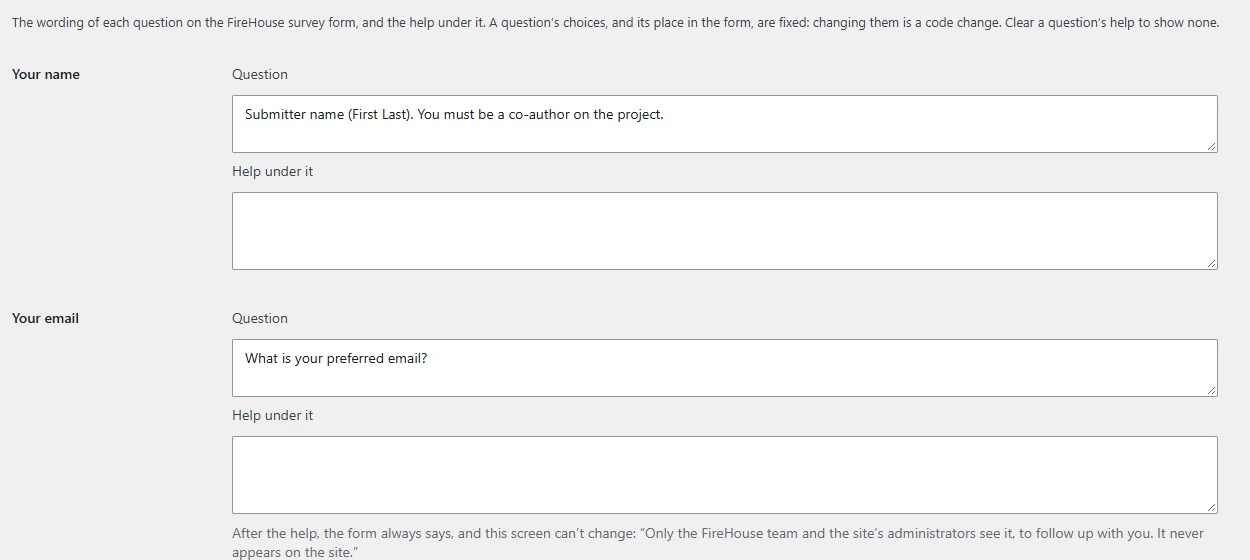
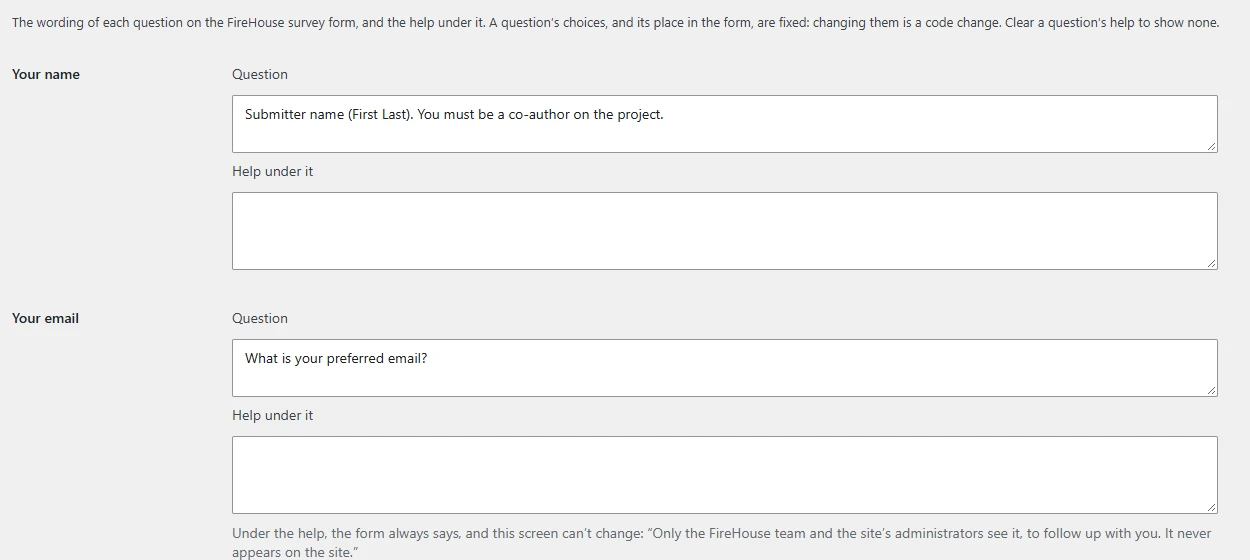
Survey questions: boxes named for their question, errors seen, privacy line its own
The Section 508 review of #68 (Low findings a FireHouse Editor reaches):

- Each question's name is a heading, so a screen reader's heading keys
  go question by question, and each box's label ends with its question's
  name, hidden, so a list of the screen's fields tells the 30 apart.
- A question's box in error gets WordPress's red border, which its own
  rule gives inputs only, and a field a summary link goes to stops below
  the toolbar with its label in view.
- A private question's privacy line is a line of its own under the help,
  tied to the field, so help without a full stop can't run into it.

The guide says the bold name is what the form's error messages call the
question, and its image's alt text says what the picture shows. The
questions screenshot is retaken for the screen's "Under the help" note.

Changed region(s): [[0.1872, 0.9411, 0.9672, 0.9714]]

diff --git a/wp-content/plugins/firehouse/survey/class-form.php b/wp-content/plugins/firehouse/survey/class-form.php
@@ -94,6 +94,7 @@ final class Form {
 		$focus    = (string) $state['focus'];
 		$required = $question['required'] ? '<span class="fh-field__required" aria-hidden="true"> *</span>' : '';
 		$help     = isset( $question['help'] ) ? (string) $question['help'] : '';
+		$privacy  = isset( $question['privacy'] ) ? (string) $question['privacy'] : '';
 		switch ( $question['type'] ) {
 			case 'choice':
 			case 'choices':
@@ -106,7 +107,7 @@ final class Form {
 				$control = 'longtext' === $question['type']
 					? '<textarea id="' . esc_attr( $id ) . '" name="' . esc_attr( Submission::FIELD . '[' . $name . ']' ) . '" rows="' . (int) ( $question['rows'] ?? 4 ) . '" class="fh-field__control fh-field__control--area' . ( '' !== $problem ? ' fh-field__control--error' : '' ) . '"' . self::attributes( $id, $question, $help, $problem, $focus === $name ) . '>' . Markup::text( (string) $value ) . '</textarea>'
 					: '<input id="' . esc_attr( $id ) . '" name="' . esc_attr( Submission::FIELD . '[' . $name . ']' ) . '" type="' . ( 'email' === $question['type'] ? 'email' : 'text' ) . '"' . ( 'year' === $question['type'] ? ' inputmode="numeric" maxlength="4"' : '' ) . ' value="' . Markup::text( (string) $value ) . '" class="fh-field__control' . ( '' !== $problem ? ' fh-field__control--error' : '' ) . '"' . ( isset( $question['autocomplete'] ) ? ' autocomplete="' . esc_attr( $question['autocomplete'] ) . '"' : '' ) . self::attributes( $id, $question, $help, $problem, $focus === $name ) . ' />';
-				return '<div class="fh-field fh-survey__question"><label class="fh-field__label" for="' . esc_attr( $id ) . '">' . esc_html( $question['label'] ) . $required . '</label>' . $control . self::help( $id, $help, $problem ) . '</div>';
+				return '<div class="fh-field fh-survey__question"><label class="fh-field__label" for="' . esc_attr( $id ) . '">' . esc_html( $question['label'] ) . $required . '</label>' . $control . self::help( $id, $help, $problem, $privacy ) . '</div>';
 		}
 	}
 
@@ -123,9 +124,10 @@ final class Form {
 		$id      = 'fh-survey-' . $name;
 		$problem = (string) ( $state['problems'][ $name ] ?? '' );
 		$help    = isset( $question['help'] ) ? (string) $question['help'] : '';
+		$privacy = isset( $question['privacy'] ) ? (string) $question['privacy'] : '';
 		$many    = 'choices' === $question['type'];
 		$chosen  = array_map( 'strval', (array) $value );
-		$html    = '<fieldset class="fh-survey__group fh-survey__question" id="' . esc_attr( $id ) . '" tabindex="-1"' . self::described( $id, $help, $problem ) . '><legend class="fh-field__label">' . esc_html( $question['label'] ) . $required . self::required_words( $question ) . '</legend>' . self::help( $id, $help, $problem );
+		$html    = '<fieldset class="fh-survey__group fh-survey__question" id="' . esc_attr( $id ) . '" tabindex="-1"' . self::described( $id, $help, $problem, $privacy ) . '><legend class="fh-field__label">' . esc_html( $question['label'] ) . $required . self::required_words( $question ) . '</legend>' . self::help( $id, $help, $problem, $privacy );
 		foreach ( $question['options'] as $key => $label ) {
 			$option = $id . '-' . $key;
 			$html  .= '<div class="fh-survey__option"><input type="' . ( $many ? 'checkbox' : 'radio' ) . '" id="' . esc_attr( $option ) . '" name="' . esc_attr( Submission::FIELD . '[' . $name . ']' . ( $many ? '[]' : '' ) ) . '" value="' . esc_attr( (string) $key ) . '"' . checked( in_array( (string) $key, $chosen, true ), true, false ) . ' /><label for="' . esc_attr( $option ) . '">' . esc_html( $label ) . '</label></div>';
@@ -196,35 +198,44 @@ final class Form {
 	 * @param bool                 $autofocus Whether it takes the focus.
 	 */
 	private static function attributes( string $id, array $question, string $help, string $problem, bool $autofocus ): string {
-		return self::described( $id, $help, $problem )
+		return self::described( $id, $help, $problem, isset( $question['privacy'] ) ? (string) $question['privacy'] : '' )
 			. ( '' !== $problem ? ' aria-invalid="true"' : '' )
 			. ( ! empty( $question['required'] ) ? ' aria-required="true"' : '' )
 			. ( $autofocus ? ' autofocus' : '' );
 	}
 
 	/**
-	 * The `aria-describedby` that ties help and a problem to their control.
+	 * The `aria-describedby` that ties a problem, help and a private answer's privacy
+	 * line to their control.
 	 *
 	 * @param string $id      The control's id.
 	 * @param string $help    Its help.
 	 * @param string $problem What's wrong with it.
+	 * @param string $privacy Who sees the answer, for a private one.
 	 */
-	private static function described( string $id, string $help, string $problem ): string {
-		$ids = array_merge( '' !== $problem ? array( $id . '-problem' ) : array(), '' !== $help ? array( $id . '-help' ) : array() );
+	private static function described( string $id, string $help, string $problem, string $privacy = '' ): string {
+		$ids = array_merge(
+			'' !== $problem ? array( $id . '-problem' ) : array(),
+			'' !== $help ? array( $id . '-help' ) : array(),
+			'' !== $privacy ? array( $id . '-privacy' ) : array()
+		);
 		return array() === $ids ? '' : ' aria-describedby="' . esc_attr( implode( ' ', $ids ) ) . '"';
 	}
 
 	/**
-	 * A control's problem and help, under it.
+	 * A control's problem, help and privacy line, under it, each on a line of its own,
+	 * so help however it's worded doesn't run into the privacy line.
 	 *
 	 * @param string $id      The control's id.
 	 * @param string $help    Its help.
 	 * @param string $problem What's wrong with it.
+	 * @param string $privacy Who sees the answer, for a private one.
 	 */
-	private static function help( string $id, string $help, string $problem ): string {
+	private static function help( string $id, string $help, string $problem, string $privacy = '' ): string {
 		// "Error:" said before a problem, wherever a screen reader meets it.
 		return ( '' !== $problem ? '<span id="' . esc_attr( $id . '-problem' ) . '" class="fh-field__help fh-field__help--error"><span class="fh-visually-hidden">' . esc_html__( 'Error:', 'firehouse' ) . ' </span>' . esc_html( $problem ) . '</span>' : '' )
-			. ( '' !== $help ? '<span id="' . esc_attr( $id . '-help' ) . '" class="fh-field__help">' . esc_html( $help ) . '</span>' : '' );
+			. ( '' !== $help ? '<span id="' . esc_attr( $id . '-help' ) . '" class="fh-field__help">' . esc_html( $help ) . '</span>' : '' )
+			. ( '' !== $privacy ? '<span id="' . esc_attr( $id . '-privacy' ) . '" class="fh-field__help">' . esc_html( $privacy ) . '</span>' : '' );
 	}
 
 	/**

diff --git a/wp-content/plugins/firehouse/tests/SettingsTest.php b/wp-content/plugins/firehouse/tests/SettingsTest.php
@@ -273,17 +273,17 @@ final class SettingsTest extends WordPressTestCase {
 		$html = self::questions();
 
 		$this->assertSame( count( Questions::all() ), substr_count( $html, '<th scope="row">' ) );
-		$this->assertStringContainsString( '<th scope="row">The project’s title</th><td><fieldset><legend class="screen-reader-text">The project’s title</legend>', $html );
-		$this->assertStringContainsString( '<p><label for="firehouse-questions-title-label">Question</label></p><p><textarea id="firehouse-questions-title-label" name="firehouse_settings[questions][title][label]" rows="2" class="large-text" required aria-describedby="firehouse-questions-title-label-own">Your &lt;b&gt;project&lt;/b&gt;’s title?</textarea></p>', $html );
+		$this->assertStringContainsString( '<th scope="row"><h3>The project’s title</h3></th><td><fieldset><legend class="screen-reader-text">The project’s title</legend>', $html );
+		$this->assertStringContainsString( '<p><label for="firehouse-questions-title-label">Question<span class="screen-reader-text"> (The project’s title)</span></label></p><p><textarea id="firehouse-questions-title-label" name="firehouse_settings[questions][title][label]" rows="2" class="large-text" required aria-describedby="firehouse-questions-title-label-own">Your &lt;b&gt;project&lt;/b&gt;’s title?</textarea></p>', $html );
 		$this->assertStringContainsString( '<p class="description" id="firehouse-questions-title-label-own">Changed. The plugin’s own wording: “What is the title of your project?”</p>', $html );
 		$this->assertStringContainsString( 'name="firehouse_settings[questions][title][help]" rows="3" class="large-text"></textarea>', $html, 'No help, unchanged: nothing describes it.' );
 		$this->assertStringContainsString( 'aria-describedby="firehouse-questions-email-help-privacy"></textarea>', $html, 'The help cleared to match the plugin, which has none.' );
-		$this->assertStringContainsString( '<p class="description" id="firehouse-questions-email-help-privacy">After the help, the form always says, and this screen can’t change: “Only the FireHouse team and the site’s administrators see it, to follow up with you. It never appears on the site.”</p>', $html );
+		$this->assertStringContainsString( '<p class="description" id="firehouse-questions-email-help-privacy">Under the help, the form always says, and this screen can’t change: “Only the FireHouse team and the site’s administrators see it, to follow up with you. It never appears on the site.”</p>', $html );
 		$this->assertStringNotContainsString( 'aria-invalid', $html );
 
 		Settings::sanitize( self::valid() + array( 'questions' => array( 'org' => array( 'label' => '' ) ) ) );
 		$html = self::questions();
-		$this->assertStringContainsString( '<tr class="form-invalid form-required"><th scope="row">Your agency or institution</th>', $html );
+		$this->assertStringContainsString( '<tr class="form-invalid form-required"><th scope="row"><h3>Your agency or institution</h3></th>', $html );
 		$this->assertStringContainsString( 'required aria-describedby="firehouse-questions-org-label-error" aria-invalid="true" autofocus>', $html );
 		$this->assertStringContainsString( '<p class="description" id="firehouse-questions-org-label-error"><strong>Error:</strong> Your agency or institution: the question can’t be empty.</p>', $html );
 	}

diff --git a/wp-content/plugins/firehouse/includes/class-settings.php b/wp-content/plugins/firehouse/includes/class-settings.php
@@ -232,8 +232,12 @@ final class Settings {
 				static function (): void {
 					add_filter( 'admin_title', array( self::class, 'title' ) );
 					// WordPress's style for a field in error replaces the focus ring with the
-					// same red border every field in error has; this puts the ring back.
-					wp_add_inline_style( 'common', '.form-table tr.form-invalid.form-required input:focus,.form-table tr.form-invalid.form-required textarea:focus{box-shadow:0 0 0 2px var(--wp-admin-theme-color,#2271b1)}' );
+					// same red border every field in error has; this puts the ring back. Its
+					// red border leaves out textareas, so a survey question's box in error
+					// gets one here. A field a link in the summary goes to stops below the
+					// toolbar, with its label in view. A question's heading looks like the
+					// other rows' names.
+					wp_add_inline_style( 'common', '.form-table tr.form-invalid.form-required input:focus,.form-table tr.form-invalid.form-required textarea:focus{box-shadow:0 0 0 2px var(--wp-admin-theme-color,#2271b1)}.form-table tr.form-invalid textarea[aria-invalid=true]{border-color:#d63638}.form-table input,.form-table textarea{scroll-margin-top:6em}#firehouse-questions th h3{font-size:inherit;font-weight:inherit;line-height:inherit;margin:0}' );
 				}
 			);
 		}
@@ -366,8 +370,9 @@ final class Settings {
 		echo '<table class="form-table" role="presentation"><tbody>';
 		foreach ( Survey\Questions::all() as $name => $question ) {
 			$invalid = isset( $errors[ self::field_id( array( 'questions', $name, 'label' ) ) ] ) || isset( $errors[ self::field_id( array( 'questions', $name, 'help' ) ) ] );
+			// A heading each, so a screen reader's heading keys go question by question.
 			printf(
-				'<tr%1$s><th scope="row">%2$s</th><td><fieldset><legend class="screen-reader-text">%2$s</legend>',
+				'<tr%1$s><th scope="row"><h3>%2$s</h3></th><td><fieldset><legend class="screen-reader-text">%2$s</legend>',
 				$invalid ? ' class="form-invalid form-required"' : '',
 				esc_html( (string) $question['name'] )
 			);
@@ -405,10 +410,17 @@ final class Settings {
 		}
 		if ( 'help' === $part && isset( $question['privacy'] ) ) {
 			/* translators: %s: the fixed line saying who sees a private answer. */
-			$notes[ $id . '-privacy' ] = esc_html( sprintf( __( 'After the help, the form always says, and this screen can’t change: “%s”', 'firehouse' ), (string) $question['privacy'] ) );
+			$notes[ $id . '-privacy' ] = esc_html( sprintf( __( 'Under the help, the form always says, and this screen can’t change: “%s”', 'firehouse' ), (string) $question['privacy'] ) );
 		}
 
-		printf( '<p><label for="%1$s">%2$s</label></p>', esc_attr( $id ), esc_html( 'label' === $part ? __( 'Question', 'firehouse' ) : __( 'Help under it', 'firehouse' ) ) );
+		// Named for its question too, so a list of the screen's fields tells the thirty
+		// boxes apart; the visible words still start the name.
+		printf(
+			'<p><label for="%1$s">%2$s<span class="screen-reader-text"> (%3$s)</span></label></p>',
+			esc_attr( $id ),
+			esc_html( 'label' === $part ? __( 'Question', 'firehouse' ) : __( 'Help under it', 'firehouse' ) ),
+			esc_html( (string) $question['name'] )
+		);
 		printf(
 			'<p><textarea id="%1$s" name="%2$s" rows="%3$d" class="large-text"%4$s%5$s%6$s>%7$s</textarea></p>',
 			esc_attr( $id ),

diff --git a/wp-content/plugins/firehouse/tests/SurveyFormTest.php b/wp-content/plugins/firehouse/tests/SurveyFormTest.php
@@ -54,8 +54,10 @@ final class SurveyFormTest extends WordPressTestCase {
 		$html = self::drawn( array() );
 
 		$this->assertStringContainsString( '<label class="fh-field__label" for="fh-survey-title">Your &lt;b&gt;project&lt;/b&gt;’s title?<span class="fh-field__required" aria-hidden="true"> *</span></label>', $html );
-		$this->assertStringContainsString( '<span id="fh-survey-email-help" class="fh-field__help">Use your work address. Only the FireHouse team and the site’s administrators see it, to follow up with you. It never appears on the site.</span>', $html );
-		$this->assertStringContainsString( '<span id="fh-survey-jobTitle-help" class="fh-field__help">Only the FireHouse team and the site’s administrators see it. It never appears on the site.</span>', $html );
+		$this->assertStringContainsString( '<span id="fh-survey-email-help" class="fh-field__help">Use your work address.</span><span id="fh-survey-email-privacy" class="fh-field__help">Only the FireHouse team and the site’s administrators see it, to follow up with you. It never appears on the site.</span>', $html );
+		$this->assertStringContainsString( '<span id="fh-survey-jobTitle-privacy" class="fh-field__help">Only the FireHouse team and the site’s administrators see it. It never appears on the site.</span>', $html );
+		$this->assertStringContainsString( 'aria-describedby="fh-survey-email-help fh-survey-email-privacy"', $html, 'Help and privacy line, each its own line, both tied to the field.' );
+		$this->assertStringContainsString( '<fieldset class="fh-survey__group fh-survey__question" id="fh-survey-shared" tabindex="-1" aria-describedby="fh-survey-shared-privacy">', $html );
 		$this->assertStringNotContainsString( 'fh-survey-links-help', $html, 'Help cleared: none.' );
 		$this->assertStringContainsString( 'Please list up to 8 user needs and recommendations identified in your project, one in each box.', $html, 'Not changed: the plugin’s wording.' );
 	}
@@ -101,7 +103,7 @@ final class SurveyFormTest extends WordPressTestCase {
 		$this->assertStringContainsString( 'name="_wpnonce" value="a-nonce"', $html );
 		$this->assertStringContainsString( 'name="' . Survey::STARTED . '" value="123.abc"', $html );
 		$this->assertStringContainsString( '<div class="fh-survey__trap" aria-hidden="true">', $html );
-		$this->assertStringContainsString( 'aria-describedby="fh-survey-email-help"', $html, 'A private field says so.' );
+		$this->assertStringContainsString( 'aria-describedby="fh-survey-email-privacy"', $html, 'A private field says so.' );
 		$this->assertSame( count( Questions::all() ), substr_count( $html, 'fh-survey__question' ) );
 	}
 

diff --git a/wp-content/plugins/firehouse/survey/class-questions.php b/wp-content/plugins/firehouse/survey/class-questions.php
@@ -246,22 +246,20 @@ final class Questions {
 
 	/**
 	 * The questions as the form asks them: each one's wording and help as the settings
-	 * screen changed them (Settings::stored()), over the plugin's own; and after a
-	 * private answer's help, its privacy line, whatever the help says.
+	 * screen changed them (Settings::stored()), over the plugin's own. A private
+	 * answer's privacy line stays as it is, for the form to show after the help, whatever
+	 * the help says.
 	 *
 	 * @return array<string, array<string, mixed>>
 	 */
 	public static function worded(): array {
 		$questions = self::all();
 		$changed   = Settings::stored()['questions'];
-		foreach ( $questions as $name => $question ) {
+		foreach ( array_keys( $questions ) as $name ) {
 			foreach ( self::WORDING as $part ) {
 				if ( isset( $changed[ $name ][ $part ] ) ) {
 					$questions[ $name ][ $part ] = $changed[ $name ][ $part ];
 				}
-			}
-			if ( isset( $question['privacy'] ) ) {
-				$questions[ $name ]['help'] = trim( ( $questions[ $name ]['help'] ?? '' ) . ' ' . $question['privacy'] );
 			}
 		}
 		return $questions;

diff --git a/wp-content/plugins/firehouse/help/06-settings.md b/wp-content/plugins/firehouse/help/06-settings.md
@@ -18,7 +18,7 @@ Choose **Save Changes** to save. If a setting has a problem, such as an empty la
 
 ## Reword a survey question
 
-**Survey questions**, at the bottom of the screen, has a row for each question on the FireHouse survey form. Each row has two boxes:
+**Survey questions**, at the bottom of the screen, has a row for each question on the FireHouse survey form, named in bold. That name is what the form's error messages call the question ("Your name: this is required."), and it can't be changed, so keep your wording close to it. Each row has two boxes:
 
 - **Question:** the question as the form asks it. It can't be empty.
 - **Help under it:** the line under the question. Clear it to show none.
@@ -31,9 +31,9 @@ A box you've changed says so under it, and gives the plugin's own wording. To pu
 Some things here can't be changed:
 
 - **The choices and the order of the questions.** Changing those is a job for the developer.
-- **Who sees a private answer.** The help of the email, job title and sharing questions always ends with a line saying who sees the answer. Add to the help if you like; that line stays.
+- **Who sees a private answer.** Under the help of the email, job title and sharing questions, the form always has a line saying who sees the answer. Add help if you like; that line stays.
 - **Some characters.** A question or its help can't hold an email address or a character that doesn't show, such as a direction mark.
 
-![The Survey questions section, with a question's two boxes](images/settings-questions.webp "Survey questions, on FireHouse → Settings.")
+![The Survey questions section: rows for Your name and Your email, each with a Question box and a Help under it box, and under the email's help the fixed line saying who sees the answer](images/settings-questions.webp "Survey questions, on FireHouse → Settings.")
 
 Projects that came in before you reworded a question keep their answers, as the researcher gave them.
